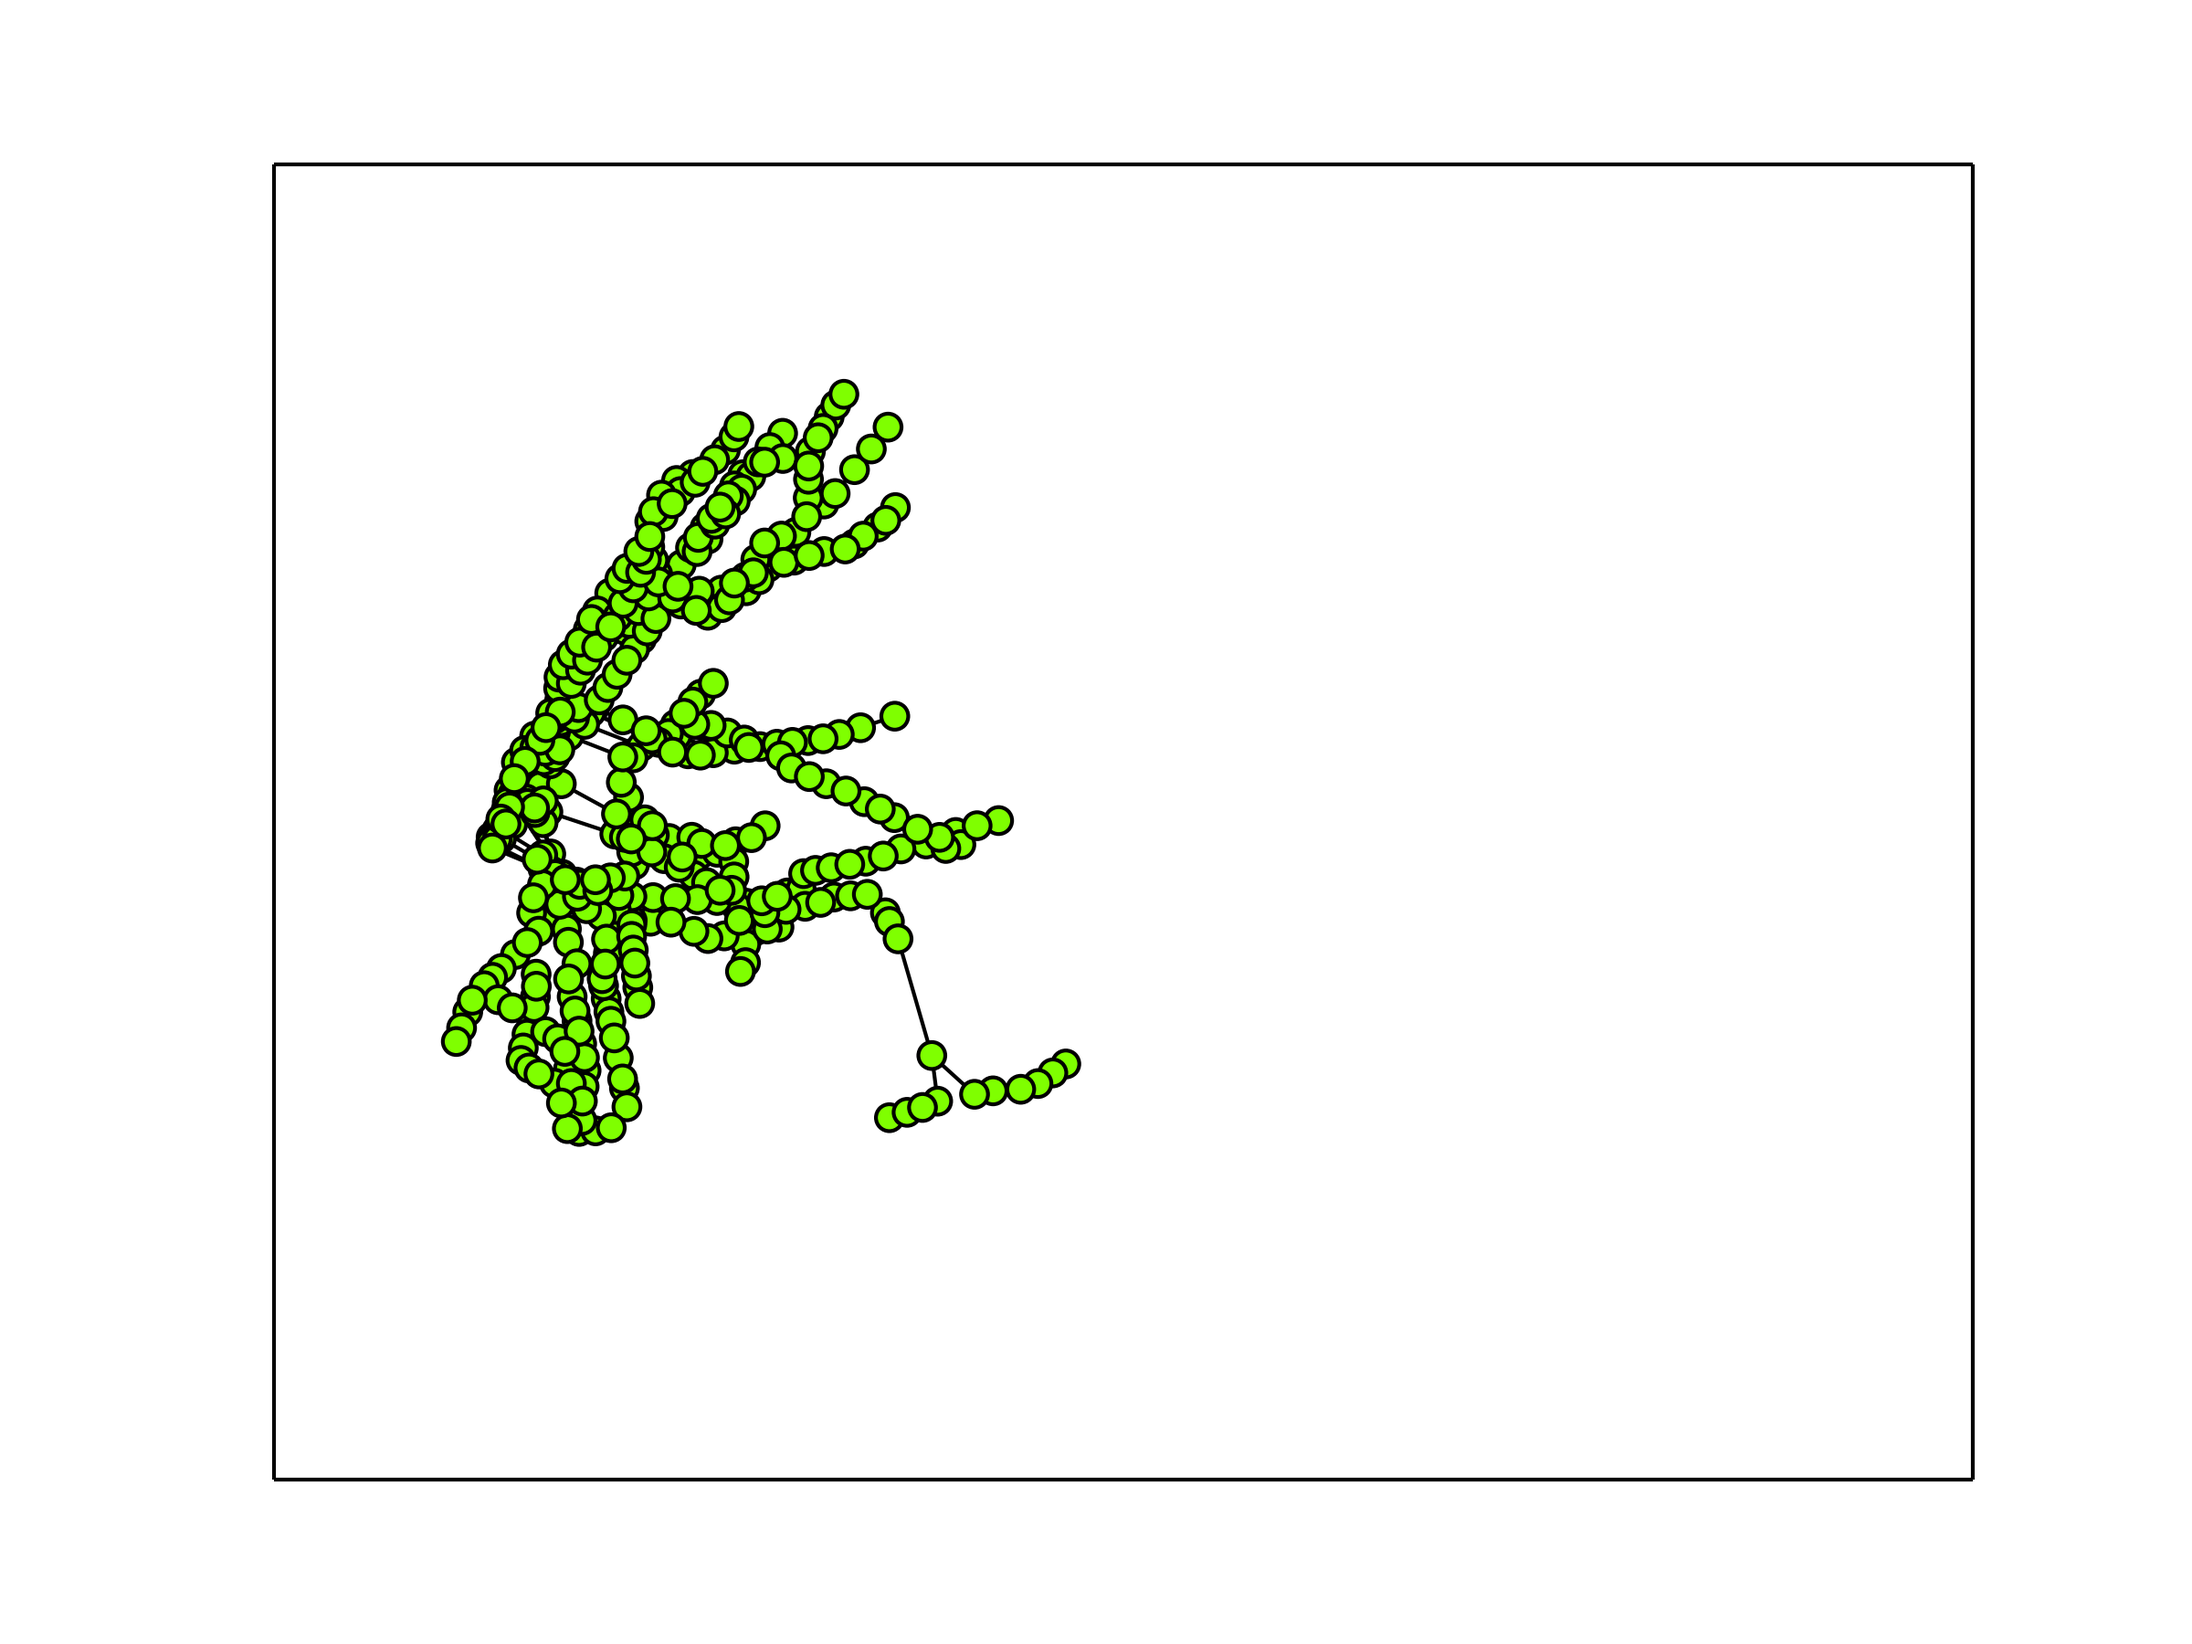
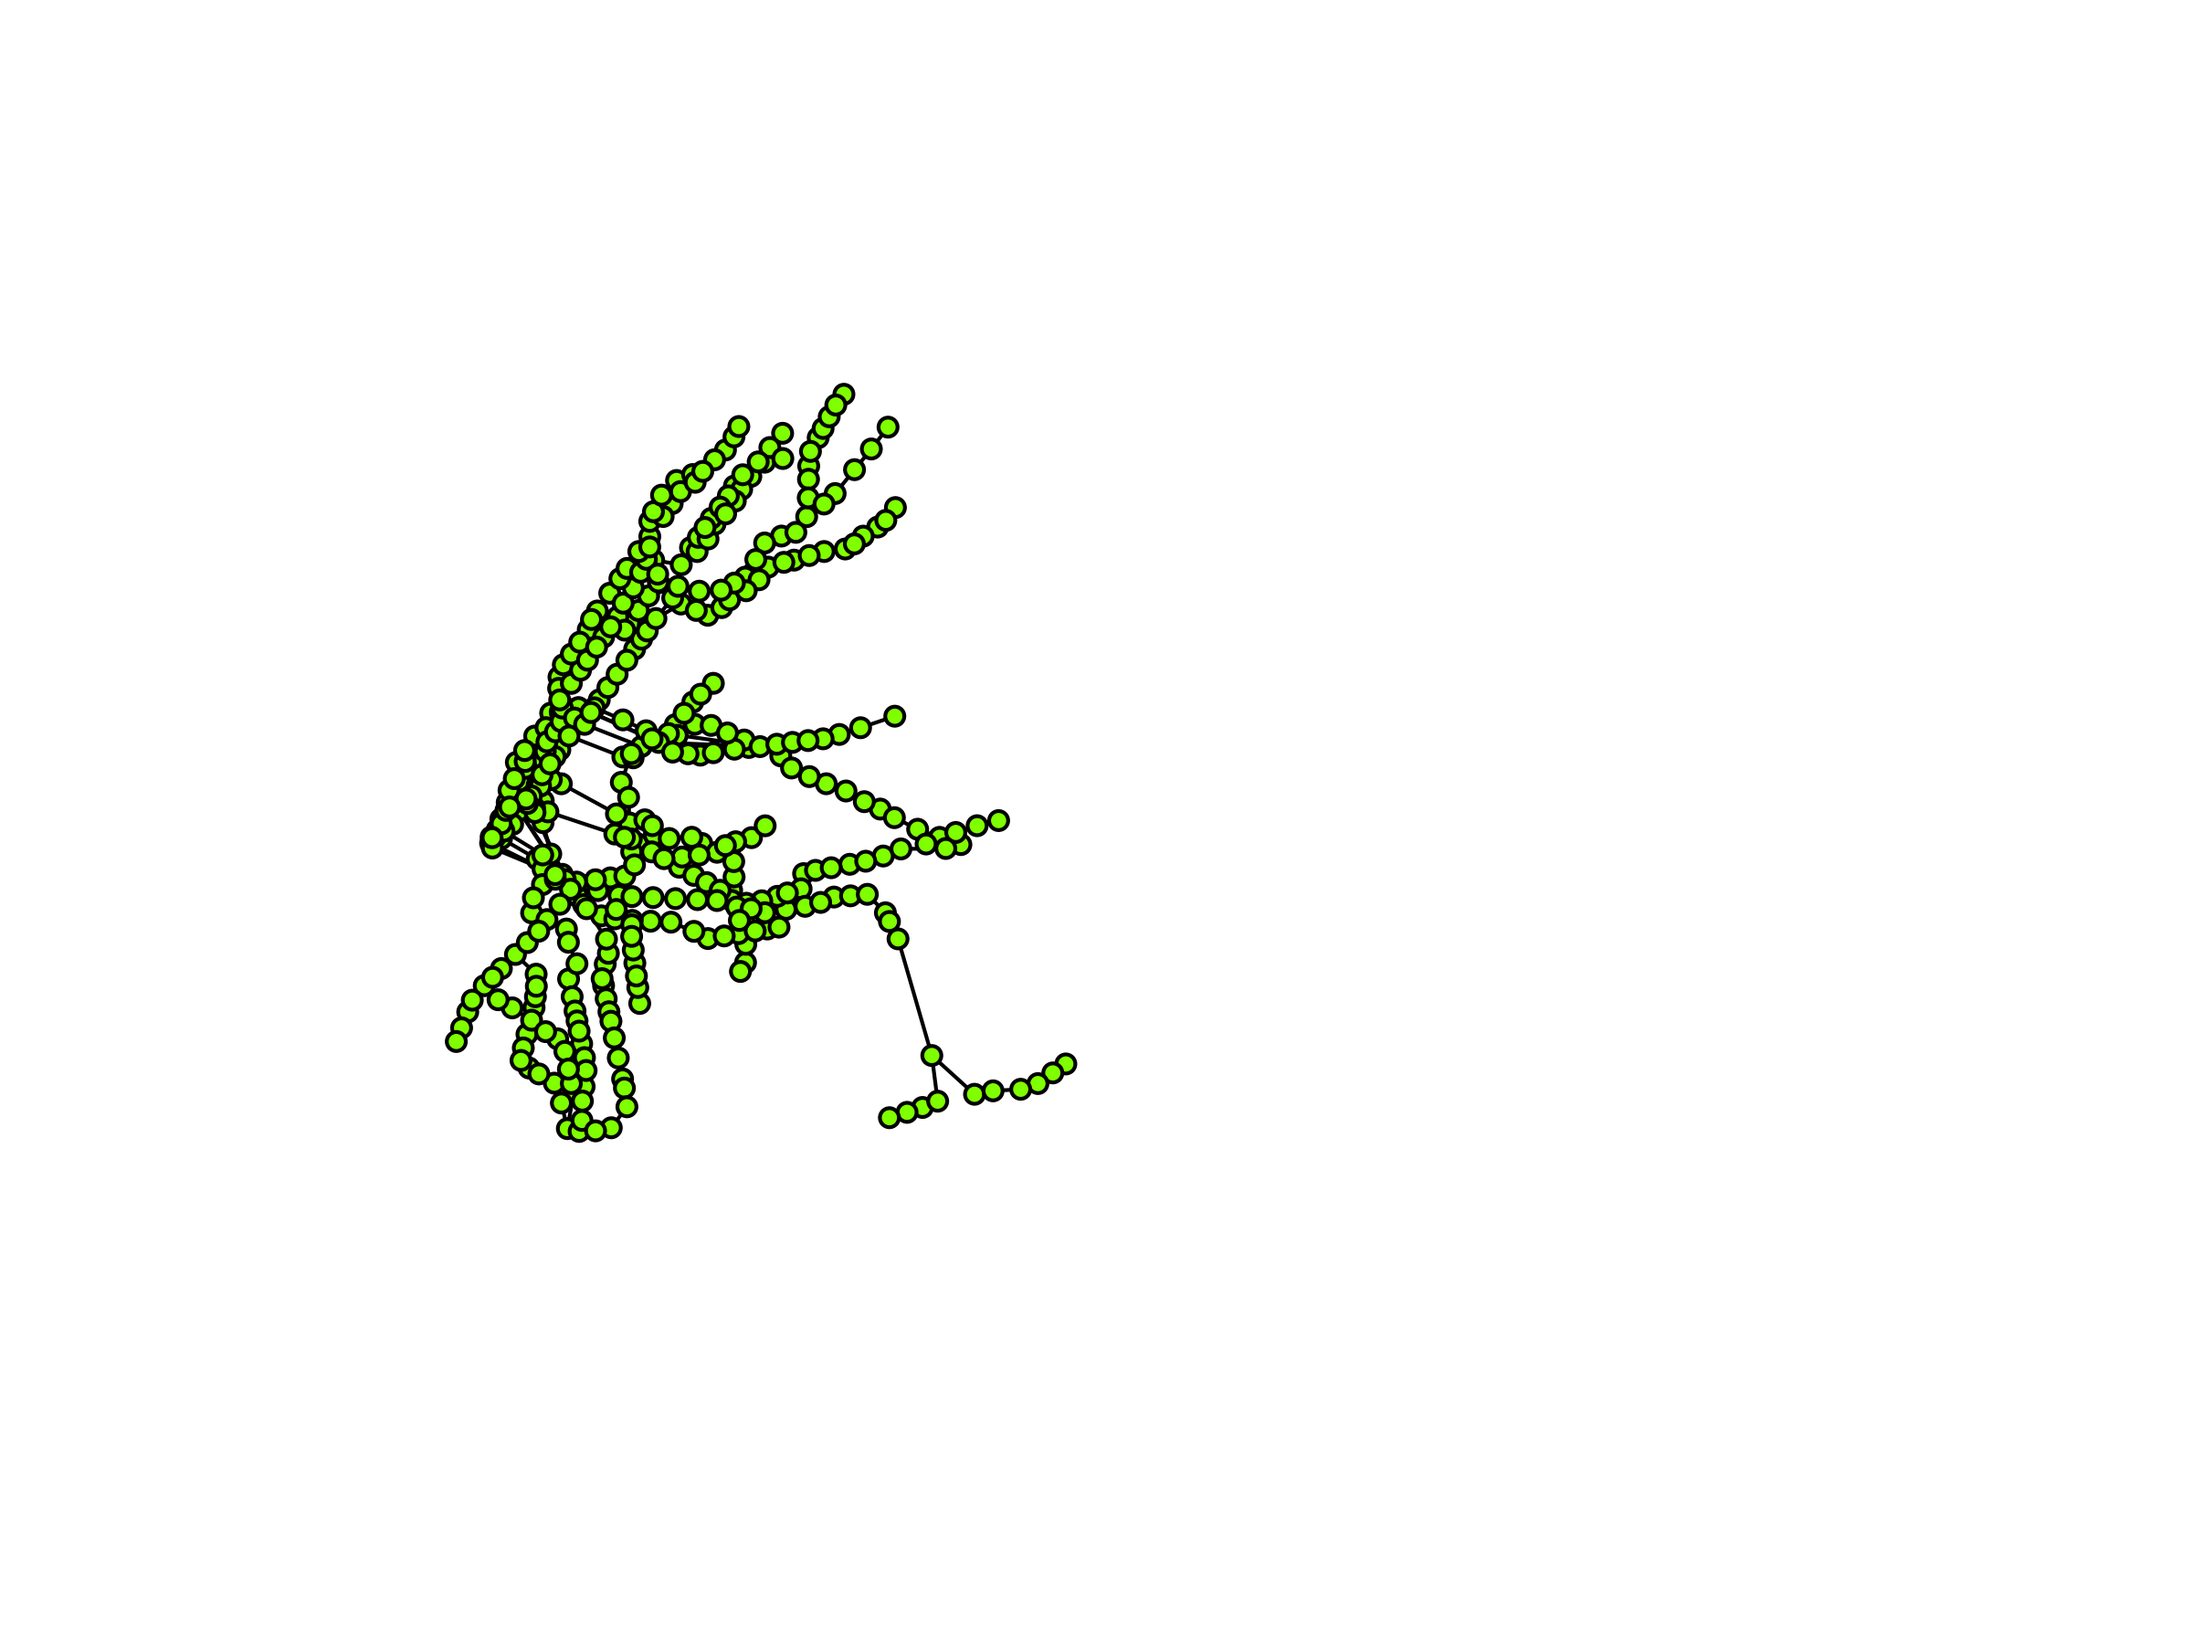
Better figure.

diff --git a/python/tools.py b/python/tools.py
@@ -890,6 +890,14 @@ def subway_map(graph,file_name=None):
         plt.savefig(file_name, dpi=300)
     else: plt.show()
 
+def clear_frame(ax=None): 
+    if ax is None: 
+        ax = plt.gca() 
+    ax.xaxis.set_visible(False) 
+    ax.yaxis.set_visible(False) 
+    for spine in ax.spines.itervalues(): 
+        spine.set_visible(False) 
+
 def nyc_map(graph,file_name=None):
     """Visually represent the subway network and save to file"""
     # Turn interactive plotting off
@@ -911,12 +919,13 @@ def nyc_map(graph,file_name=None):
     which='both',      # both major and minor ticks are affected
     left='off',      # ticks along the bottom edge are off
     right='off',         # ticks along the top edge are off
-    labelleft='off') 
+    labelleft='off')
+    clear_frame() 
     plt.xlim( -25000,40000)
     plt.ylim( -25000,40000)
 
  
-    nx.draw_networkx(graph,positions,labels=labels,node_size=50,node_color='chartreuse')
+    nx.draw_networkx(graph,positions,labels=labels,node_size=25,node_color='chartreuse')
     if file_name:
         plt.savefig(file_name, dpi=300)
     else: plt.show()
